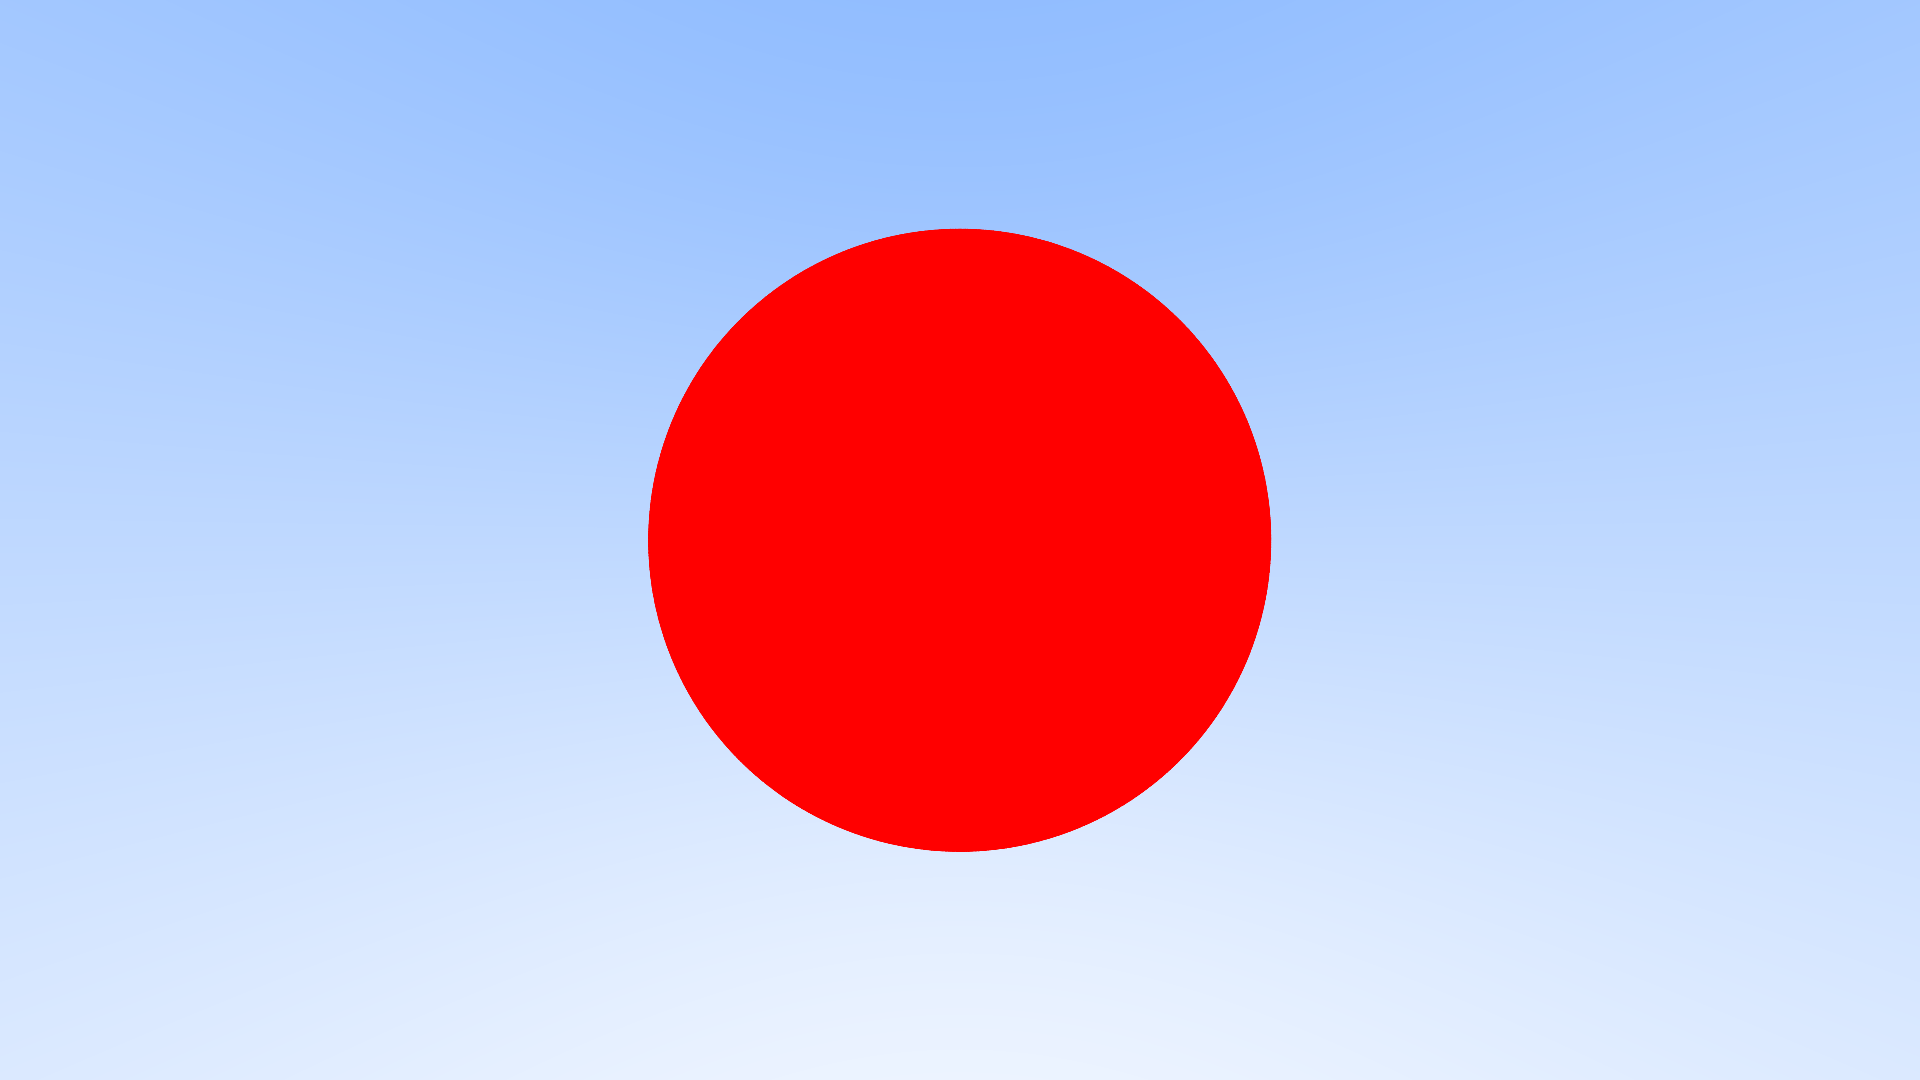
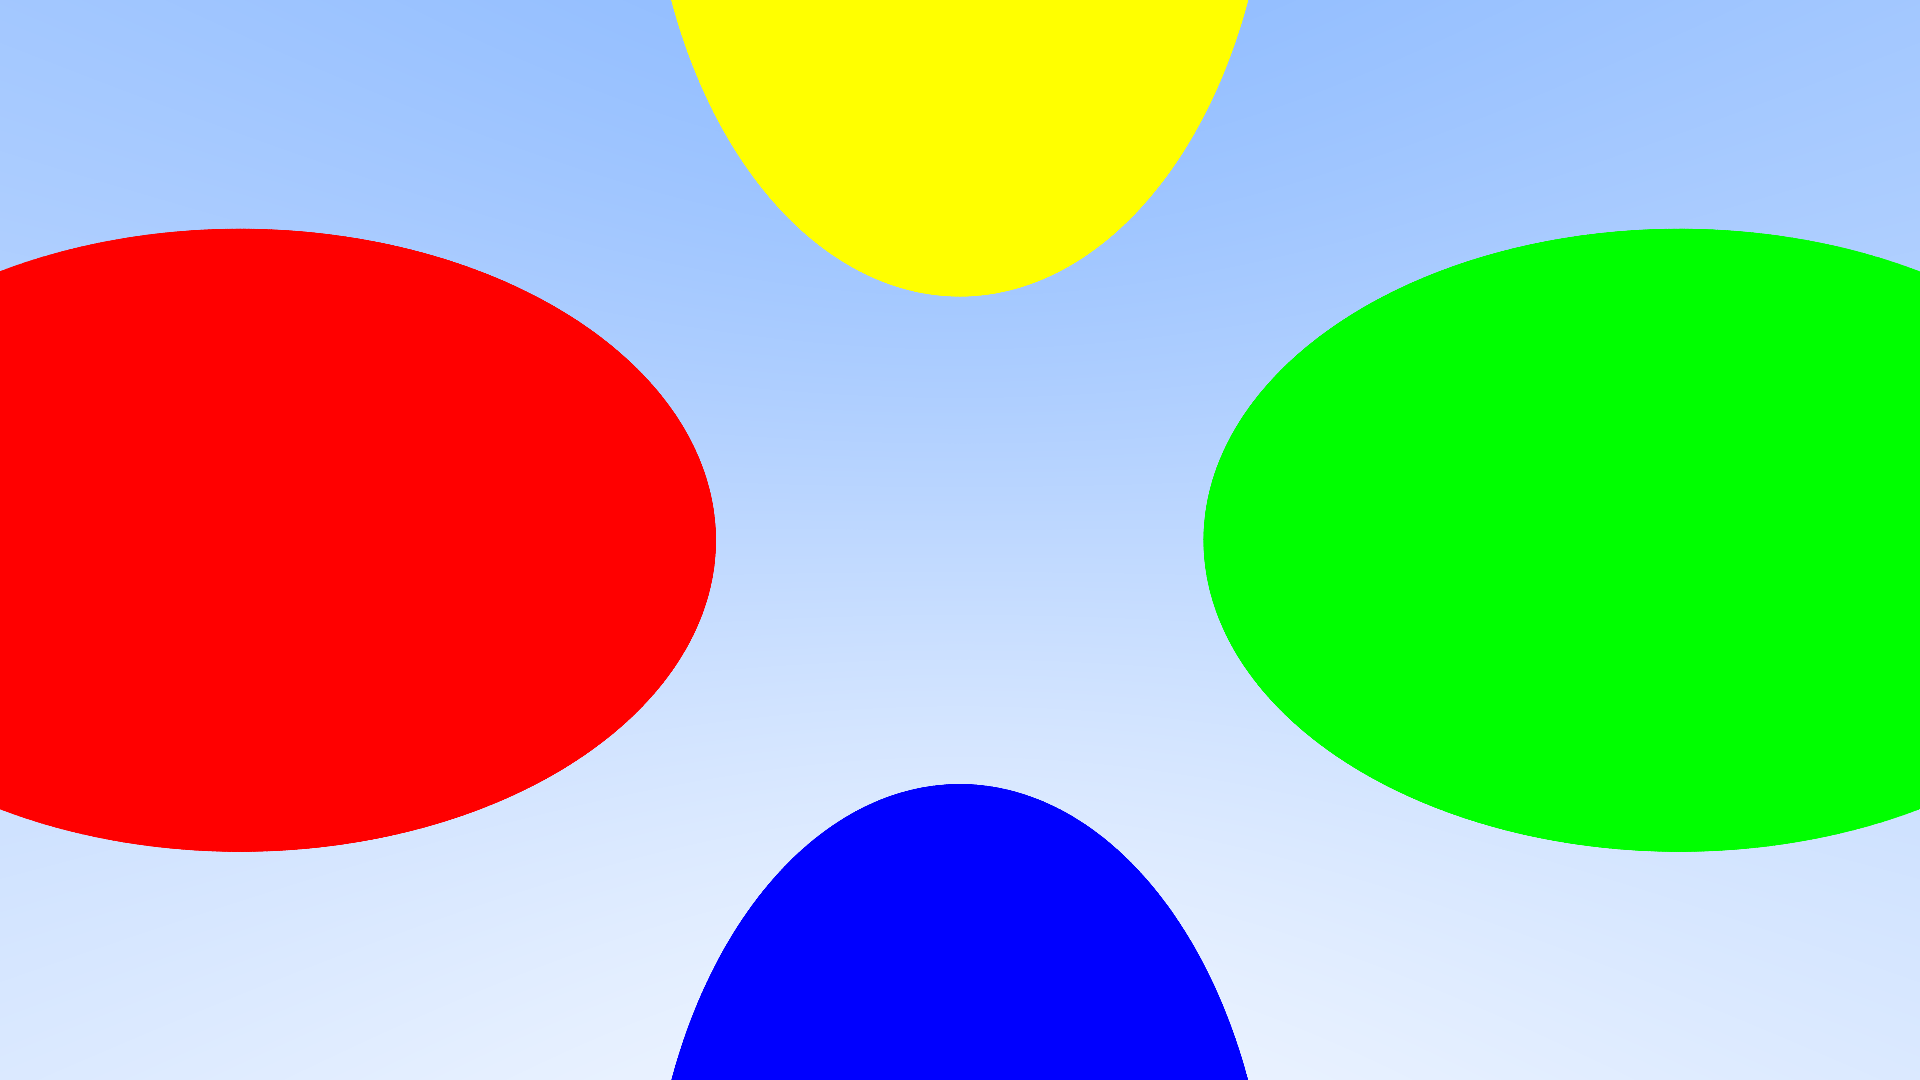
Multiple objects in the scene!

diff --git a/archer/src/main.rs b/archer/src/main.rs
@@ -16,24 +16,68 @@ fn main() {
     let mut camera = Camera::new(RESOLUTION);
     camera.update();
 
-    // Add a red sphere
-    let sphere: Sphere = Sphere {
-        radius: 0.5,
-        position: Point3::new(0.0, 0.0, -1.0),
-    };
-    let red_mtl: SolidColor = SolidColor {
+    // Add some spheres
+    let material1: SolidColor = SolidColor {
         color: Color::new(255.0, 0.0, 0.0),
     };
+    let sphere1: Sphere = Sphere {
+        radius: 0.5,
+        position: Point3::new(-1.0, 0.0, -1.0),
+    };
+    let object1: SceneObject = SceneObject {
+        geometry: Box::new(sphere1),
+        material: Box::new(material1),
+        node_index: 0,
+    };
 
-    let object: SceneObject = SceneObject {
-        geometry: Box::new(sphere),
-        material: Box::new(red_mtl),
+    let material2: SolidColor = SolidColor {
+        color: Color::new(0.0, 255.0, 0.0),
+    };
+    let sphere2: Sphere = Sphere {
+        radius: 0.5,
+        position: Point3::new(1.0, 0.0, -1.0),
+    };
+    let object2: SceneObject = SceneObject {
+        geometry: Box::new(sphere2),
+        material: Box::new(material2),
+        node_index: 0,
+    };
+
+
+    let material3: SolidColor = SolidColor {
+        color: Color::new(0.0, 0.0, 255.0),
+    };
+    let sphere3: Sphere = Sphere {
+        radius: 0.5,
+        position: Point3::new(0.0, -1.0, -1.0),
+    };
+    let object3: SceneObject = SceneObject {
+        geometry: Box::new(sphere3),
+        material: Box::new(material3),
+        node_index: 0,
+    };
+
+
+    let material4: SolidColor = SolidColor {
+        color: Color::new(255.0, 255.0, 0.0),
+    };
+    let sphere4: Sphere = Sphere {
+        radius: 0.5,
+        position: Point3::new(0.0, 1.0, -1.0),
+    };
+    let object4: SceneObject = SceneObject {
+        geometry: Box::new(sphere4),
+        material: Box::new(material4),
         node_index: 0,
     };
 
     // Create the scene
     let mut scene: Scene = Scene { objects: vec![] };
-    scene.add(object);
+    scene.add(object1);
+    scene.add(object2);
+    scene.add(object3);
+    scene.add(object4);
+    
     let bvh = scene.build_bvh();
 
     // Finally, make the tracer and let the magic happen!
